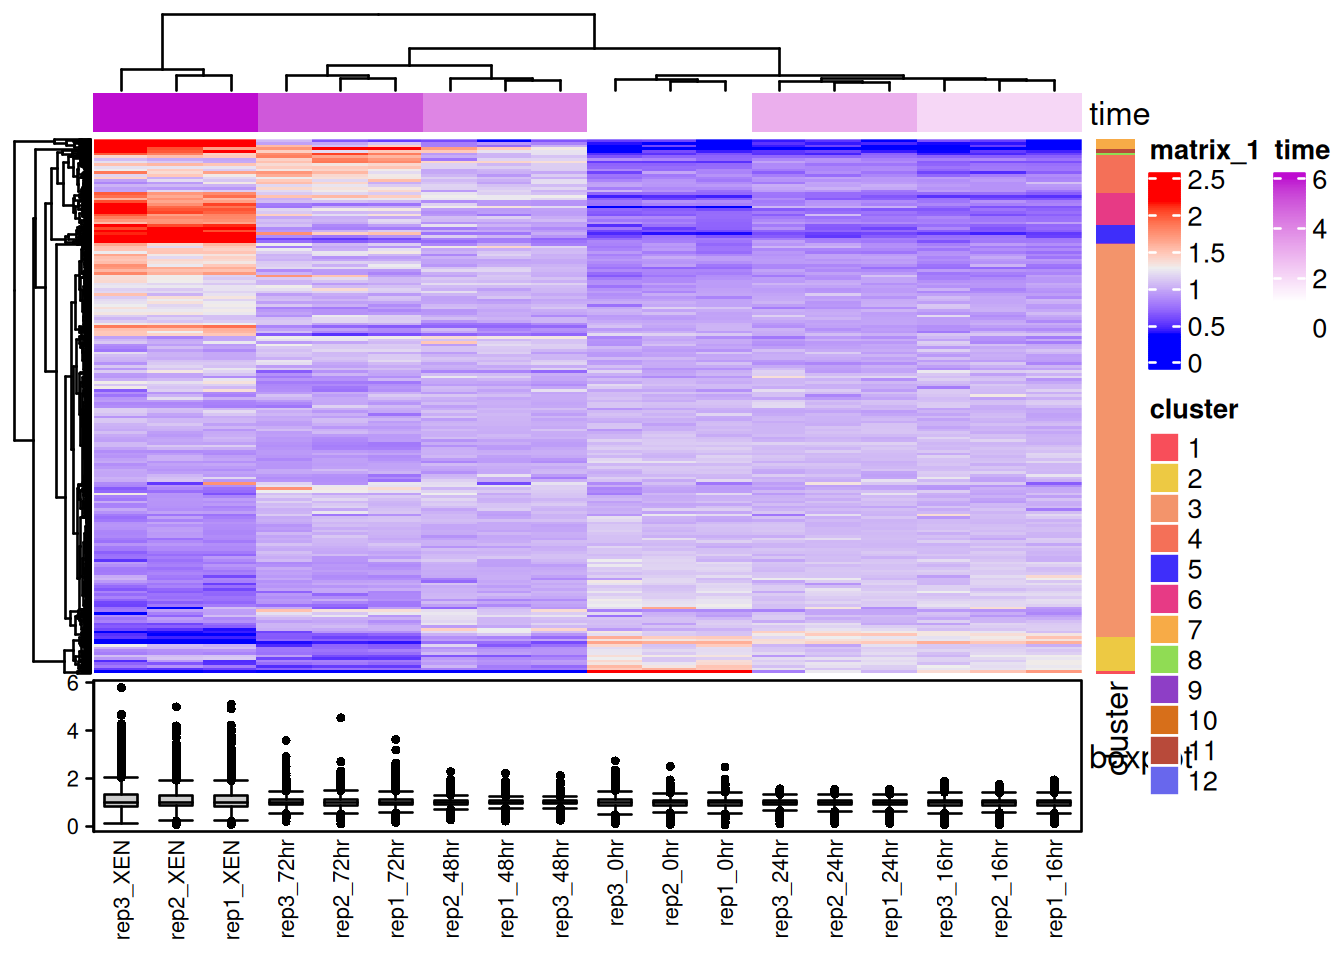
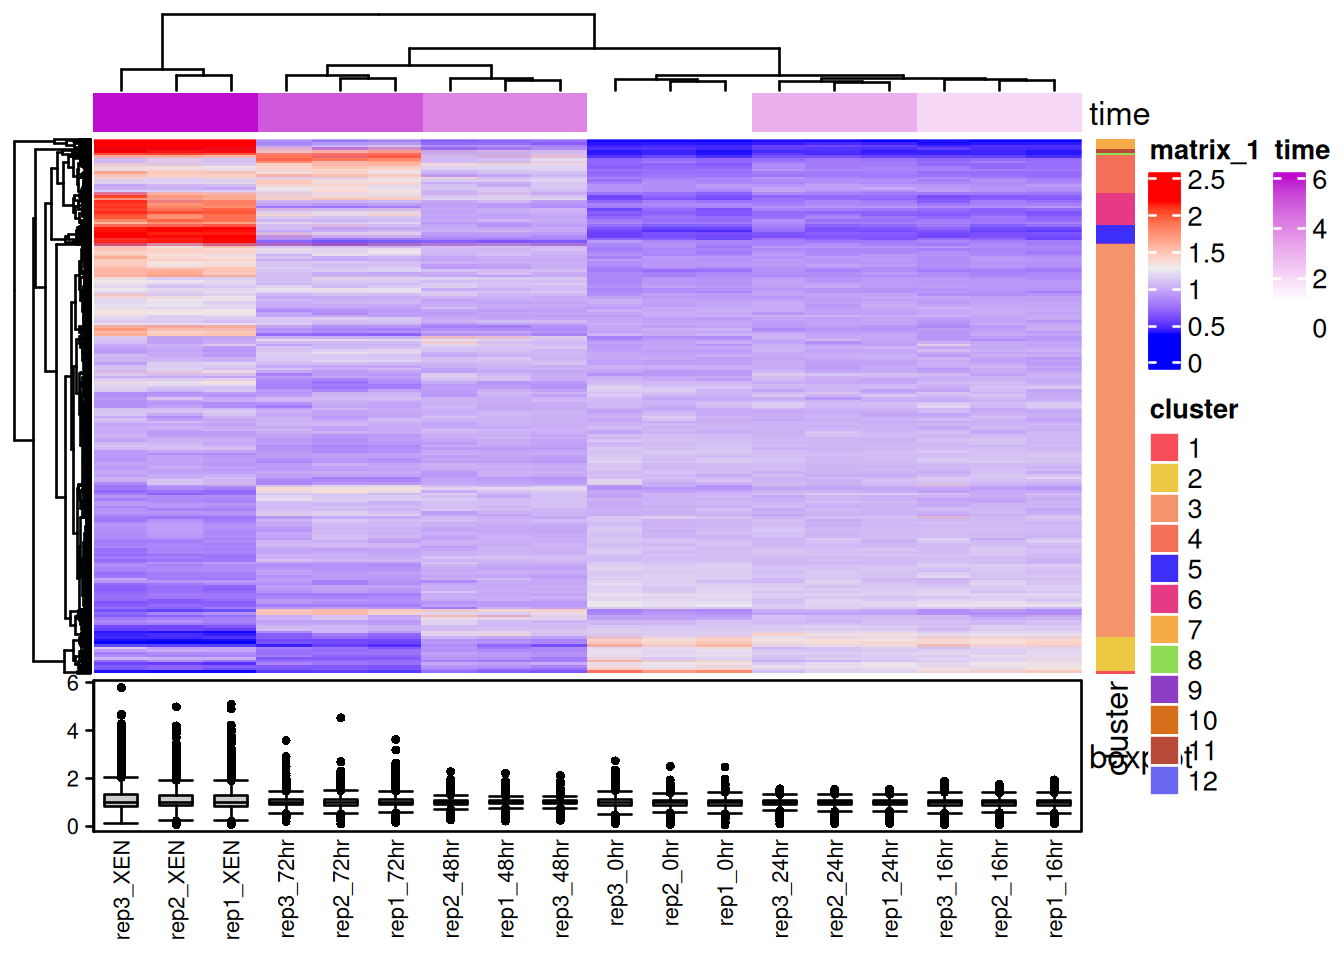
rebuild site

diff --git a/docs/sec-si.html b/docs/sec-si.html
@@ -13,7 +13,7 @@
 
 <meta name="author" content="Laurent Gatto" />
 
-<meta name="date" content="2026-01-12" />
+<meta name="date" content="2026-02-26" />
 
 <script type="text/x-mathjax-config">
 MathJax.Hub.Config({
@@ -205,7 +205,7 @@ div.csl-indent {
 <div class="sourceCode" id="cb459"><pre class="sourceCode r"><code class="sourceCode r"><span id="cb459-1"><a href="sec-si.html#cb459-1" tabindex="-1"></a><span class="fu">sessionInfo</span>()</span></code></pre></div>
 <pre><code>## R version 4.5.0 (2025-04-11)
 ## Platform: x86_64-pc-linux-gnu
-## Running under: Ubuntu 24.04.3 LTS
+## Running under: Ubuntu 24.04.4 LTS
 ## 
 ## Matrix products: default
 ## BLAS:   /opt/R-4.5/lib/R/lib/libRblas.so 
@@ -254,7 +254,7 @@ div.csl-indent {
 ## [49] dplyr_1.1.4                           purrr_1.2.0                          
 ## [51] readr_2.1.6                           tidyr_1.3.1                          
 ## [53] tibble_3.3.0                          ggplot2_4.0.1                        
-## [55] tidyverse_2.0.0                       rWSBIM1322_0.3.2                     
+## [55] tidyverse_2.0.0.9000                  rWSBIM1322_0.3.2                     
 ## 
 ## loaded via a namespace (and not attached):
 ##   [1] segmented_2.1-4        fs_1.6.6               bitops_1.0-9          
@@ -275,23 +275,23 @@ div.csl-indent {
 ##  [46] yaml_2.3.12            carData_3.0-5          recipes_1.3.1         
 ##  [49] SparseArray_1.10.7     BiocFileCache_3.0.0    blob_1.2.4            
 ##  [52] crayon_1.5.3           PSMatch_1.14.0         cigarillo_1.0.0       
-##  [55] KEGGREST_1.50.0        pillar_1.11.1          knitr_1.50            
-##  [58] rjson_0.2.23           lpSolve_5.6.23         future.apply_1.20.1   
-##  [61] codetools_0.2-20       glue_1.8.0             pcaMethods_2.2.0      
-##  [64] data.table_1.17.8      vctrs_0.6.5            png_0.1-8             
-##  [67] gtable_0.3.6           kernlab_0.9-33         cachem_1.1.0          
-##  [70] gower_1.0.2            xfun_0.55              prodlim_2025.04.28    
-##  [73] S4Arrays_1.10.1        coda_0.19-4.1          survival_3.8-3        
-##  [76] ncdf4_1.24             timeDate_4051.111      iterators_1.0.14      
-##  [79] hardhat_1.4.2          lava_1.8.2             statmod_1.5.1         
-##  [82] ipred_0.9-15           nlme_3.1-168           bit64_4.6.0-1         
-##  [85] progress_1.2.3         filelock_1.0.3         LaplacesDemon_16.1.6  
-##  [88] bslib_0.9.0            affyio_1.80.0          vipor_0.4.7           
-##  [91] otel_0.2.0             rpart_4.1.24           colorspace_2.1-2      
-##  [94] DBI_1.2.3              nnet_7.3-20            tidyselect_1.2.1      
-##  [97] bit_4.6.0              compiler_4.5.0         curl_7.0.0            
-## [100] graph_1.88.1          
-##  [ reached 'max' / getOption("max.print") -- omitted 72 entries ]</code></pre>
+##  [55] KEGGREST_1.50.0        magick_2.9.0           pillar_1.11.1         
+##  [58] knitr_1.50             rjson_0.2.23           lpSolve_5.6.23        
+##  [61] future.apply_1.20.1    codetools_0.2-20       glue_1.8.0            
+##  [64] pcaMethods_2.2.0       data.table_1.17.8      vctrs_0.6.5           
+##  [67] png_0.1-8              gtable_0.3.6           kernlab_0.9-33        
+##  [70] cachem_1.1.0           gower_1.0.2            xfun_0.55             
+##  [73] prodlim_2025.04.28     S4Arrays_1.10.1        coda_0.19-4.1         
+##  [76] survival_3.8-3         ncdf4_1.24             timeDate_4051.111     
+##  [79] iterators_1.0.14       hardhat_1.4.2          lava_1.8.2            
+##  [82] statmod_1.5.1          ipred_0.9-15           nlme_3.1-168          
+##  [85] bit64_4.6.0-1          progress_1.2.3         filelock_1.0.3        
+##  [88] LaplacesDemon_16.1.6   bslib_0.9.0            affyio_1.80.0         
+##  [91] vipor_0.4.7            otel_0.2.0             rpart_4.1.24          
+##  [94] colorspace_2.1-2       DBI_1.2.3              nnet_7.3-20           
+##  [97] tidyselect_1.2.1       bit_4.6.0              compiler_4.5.0        
+## [100] curl_7.0.0            
+##  [ reached 'max' / getOption("max.print") -- omitted 73 entries ]</code></pre>
 <div id="sec-setup2" class="section level2" number="13.1">
 <h2>
 <span class="header-section-number">13.1</span> R package setup<div class="tooltip"><button class="internal-link-btn" onclick="copy_link('sec-setup2')" onmouseout="reset_tooltip('sec-setup2-tooltip')"><span class="tooltiptext" id="sec-setup2-tooltip">Copy link</span><i class="fa fa-link"></i></button></div>
@@ -321,7 +321,7 @@ the following code:</p>
 <a href="sec-ccl.html"><button class="btn btn-default">Previous</button></a>
 </p>
 <p class="build-date">Page built: 
-2026-01-12
+2026-02-26
  using 
 R version 4.5.0 (2025-04-11)
 </p>

diff --git a/docs/index.html b/docs/index.html
@@ -13,7 +13,7 @@
 
 <meta name="author" content="Laurent Gatto" />
 
-<meta name="date" content="2026-01-12" />
+<meta name="date" content="2026-02-26" />
 
 <script type="text/x-mathjax-config">
 MathJax.Hub.Config({
@@ -302,8 +302,7 @@ the course.</p>
 <p>This material is written in R markdown <span class="citation">(<label for="tufte-mn-6" class="margin-toggle">⊕</label><input type="checkbox" id="tufte-mn-6" class="margin-toggle">Allaire et al. 2025<span class="marginnote">Allaire, JJ, Yihui Xie, Christophe Dervieux, Jonathan McPherson, Javier Luraschi, Kevin Ushey, Aron Atkins, et al. 2025. <em>Rmarkdown: Dynamic Documents for r</em>. <a href="https://github.com/rstudio/rmarkdown">https://github.com/rstudio/rmarkdown</a>.</span>)</span> and compiled as
 a book using <code>knitr</code> <span class="citation">(<label for="tufte-mn-7" class="margin-toggle">⊕</label><input type="checkbox" id="tufte-mn-7" class="margin-toggle">Xie 2025b<span class="marginnote">Xie, Yihui. 2025b. <em>Knitr: A General-Purpose Package for Dynamic Report Generation in r</em>. <a href="https://yihui.org/knitr/">https://yihui.org/knitr/</a>.</span>)</span> <code>bookdown</code> <span class="citation">(<label for="tufte-mn-8" class="margin-toggle">⊕</label><input type="checkbox" id="tufte-mn-8" class="margin-toggle">Xie 2025a<span class="marginnote">Xie, Yihui. 2025a. <em>Bookdown: Authoring Books and Technical Documents with r Markdown</em>. <a href="https://github.com/rstudio/bookdown">https://github.com/rstudio/bookdown</a>.</span>)</span>. The rendered
 matrial is available at
-<a href="https://uclouvain-cbio.github.io/WSBIM1322/">https://uclouvain-cbio.github.io/WSBIM1322/</a>
-(or <a href="http://bit.ly/WSBIM1322">http://bit.ly/WSBIM1322</a>).</p>
+<a href="https://uclouvain-cbio.github.io/WSBIM1322/">https://uclouvain-cbio.github.io/WSBIM1322/</a>.</p>
 <p>Contributions to this material are welcome. The best way to contribute
 or contact the maintainers with a GitHub
 <a href="https://github.com/uclouvain-cbio/WSBIM1322/issues">issue</a> or by
@@ -377,7 +376,7 @@ course. It can be installed with</p>
 <a href="sec-refresher.html"><button class="btn btn-default">Next</button></a>
 </p>
 <p class="build-date">Page built: 
-2026-01-12
+2026-02-26
  using 
 R version 4.5.0 (2025-04-11)
 </p>

diff --git a/docs/sec-vis.html b/docs/sec-vis.html
@@ -13,7 +13,7 @@
 
 <meta name="author" content="Laurent Gatto" />
 
-<meta name="date" content="2026-01-12" />
+<meta name="date" content="2026-02-26" />
 
 <script type="text/x-mathjax-config">
 MathJax.Hub.Config({
@@ -949,7 +949,7 @@ of the data.</p>
 <span id="cb36-9"><a href="sec-vis.html#cb36-9" tabindex="-1"></a>p2 <span class="ot">&lt;-</span>  <span class="fu">ggplot</span>(sim, <span class="fu">aes</span>(<span class="fu">log</span>(x))) <span class="sc">+</span></span>
 <span id="cb36-10"><a href="sec-vis.html#cb36-10" tabindex="-1"></a>    <span class="fu">geom_histogram</span>(<span class="at">bins =</span> <span class="dv">30</span>)</span>
 <span id="cb36-11"><a href="sec-vis.html#cb36-11" tabindex="-1"></a>p1 <span class="sc">+</span> p2</span></code></pre></div>
-<pre><code>## Warning: Removed 7964 rows containing non-finite outside the scale range
+<pre><code>## Warning: Removed 8159 rows containing non-finite outside the scale range
 ## (`stat_bin()`).</code></pre>
 <div class="figure">
 <span style="display:block;" id="fig:sim"></span>
@@ -1195,7 +1195,7 @@ otherwise. Below are some example outputs.</p>
 <a href="sec-obj.html"><button class="btn btn-default">Next</button></a>
 </p>
 <p class="build-date">Page built: 
-2026-01-12
+2026-02-26
  using 
 R version 4.5.0 (2025-04-11)
 </p>

diff --git a/docs/sec-sl.html b/docs/sec-sl.html
@@ -13,7 +13,7 @@
 
 <meta name="author" content="Laurent Gatto" />
 
-<meta name="date" content="2026-01-12" />
+<meta name="date" content="2026-02-26" />
 
 <script type="text/x-mathjax-config">
 MathJax.Hub.Config({
@@ -1051,7 +1051,7 @@ most reliable assignments one, and setting the unreliable ones to
 <a href="sec-biovis.html"><button class="btn btn-default">Next</button></a>
 </p>
 <p class="build-date">Page built: 
-2026-01-12
+2026-02-26
  using 
 R version 4.5.0 (2025-04-11)
 </p>

diff --git a/docs/sec-norm.html b/docs/sec-norm.html
@@ -13,7 +13,7 @@
 
 <meta name="author" content="Laurent Gatto" />
 
-<meta name="date" content="2026-01-12" />
+<meta name="date" content="2026-02-26" />
 
 <script type="text/x-mathjax-config">
 MathJax.Hub.Config({
@@ -759,7 +759,7 @@ samples distributions at each step. Interpret what you see.</p>
 <a href="sec-mlintro.html"><button class="btn btn-default">Next</button></a>
 </p>
 <p class="build-date">Page built: 
-2026-01-12
+2026-02-26
  using 
 R version 4.5.0 (2025-04-11)
 </p>

diff --git a/docs/sec-biovis.html b/docs/sec-biovis.html
@@ -13,7 +13,7 @@
 
 <meta name="author" content="Laurent Gatto" />
 
-<meta name="date" content="2026-01-12" />
+<meta name="date" content="2026-02-26" />
 
 <script type="text/x-mathjax-config">
 MathJax.Hub.Config({
@@ -494,7 +494,7 @@ number of intersections (default is 40) become useful.</p>
 <a href="sec-ccl.html"><button class="btn btn-default">Next</button></a>
 </p>
 <p class="build-date">Page built: 
-2026-01-12
+2026-02-26
  using 
 R version 4.5.0 (2025-04-11)
 </p>

diff --git a/docs/sec-ccl.html b/docs/sec-ccl.html
@@ -13,7 +13,7 @@
 
 <meta name="author" content="Laurent Gatto" />
 
-<meta name="date" content="2026-01-12" />
+<meta name="date" content="2026-02-26" />
 
 <script type="text/x-mathjax-config">
 MathJax.Hub.Config({
@@ -511,7 +511,7 @@ effect of that outlier of the differential analysis.</li>
 <a href="sec-si.html"><button class="btn btn-default">Next</button></a>
 </p>
 <p class="build-date">Page built: 
-2026-01-12
+2026-02-26
  using 
 R version 4.5.0 (2025-04-11)
 </p>

diff --git a/docs/sec-obj.html b/docs/sec-obj.html
@@ -13,7 +13,7 @@
 
 <meta name="author" content="Laurent Gatto" />
 
-<meta name="date" content="2026-01-12" />
+<meta name="date" content="2026-02-26" />
 
 <script type="text/x-mathjax-config">
 MathJax.Hub.Config({
@@ -1029,7 +1029,7 @@ of class <code>SummarizedExperiment</code>.</p>
 <a href="sec-biostrings.html"><button class="btn btn-default">Next</button></a>
 </p>
 <p class="build-date">Page built: 
-2026-01-12
+2026-02-26
  using 
 R version 4.5.0 (2025-04-11)
 </p>

diff --git a/docs/sec-mlintro.html b/docs/sec-mlintro.html
@@ -13,7 +13,7 @@
 
 <meta name="author" content="Laurent Gatto" />
 
-<meta name="date" content="2026-01-12" />
+<meta name="date" content="2026-02-26" />
 
 <script type="text/x-mathjax-config">
 MathJax.Hub.Config({
@@ -758,7 +758,7 @@ but these are beyond the scope of this course.</p>
 <a href="sec-testing.html"><button class="btn btn-default">Next</button></a>
 </p>
 <p class="build-date">Page built: 
-2026-01-12
+2026-02-26
  using 
 R version 4.5.0 (2025-04-11)
 </p>

diff --git a/docs/sec-refresher.html b/docs/sec-refresher.html
@@ -13,7 +13,7 @@
 
 <meta name="author" content="Laurent Gatto" />
 
-<meta name="date" content="2026-01-12" />
+<meta name="date" content="2026-02-26" />
 
 <script type="text/x-mathjax-config">
 MathJax.Hub.Config({
@@ -430,7 +430,7 @@ value, and apply it on the object’s assay.</p></li>
 <a href="sec-vis.html"><button class="btn btn-default">Next</button></a>
 </p>
 <p class="build-date">Page built: 
-2026-01-12
+2026-02-26
  using 
 R version 4.5.0 (2025-04-11)
 </p>

diff --git a/docs/sec-ul.html b/docs/sec-ul.html
@@ -13,7 +13,7 @@
 
 <meta name="author" content="Laurent Gatto" />
 
-<meta name="date" content="2026-01-12" />
+<meta name="date" content="2026-02-26" />
 
 <script type="text/x-mathjax-config">
 MathJax.Hub.Config({
@@ -999,7 +999,7 @@ average marker profiles, such as shown below.</p></li>
 <a href="sec-sl.html"><button class="btn btn-default">Next</button></a>
 </p>
 <p class="build-date">Page built: 
-2026-01-12
+2026-02-26
  using 
 R version 4.5.0 (2025-04-11)
 </p>

diff --git a/docs/sec-testing.html b/docs/sec-testing.html
@@ -13,7 +13,7 @@
 
 <meta name="author" content="Laurent Gatto" />
 
-<meta name="date" content="2026-01-12" />
+<meta name="date" content="2026-02-26" />
 
 <script type="text/x-mathjax-config">
 MathJax.Hub.Config({
@@ -1134,7 +1134,7 @@ conclusion now?</li>
 <a href="sec-dimred.html"><button class="btn btn-default">Next</button></a>
 </p>
 <p class="build-date">Page built: 
-2026-01-12
+2026-02-26
  using 
 R version 4.5.0 (2025-04-11)
 </p>
